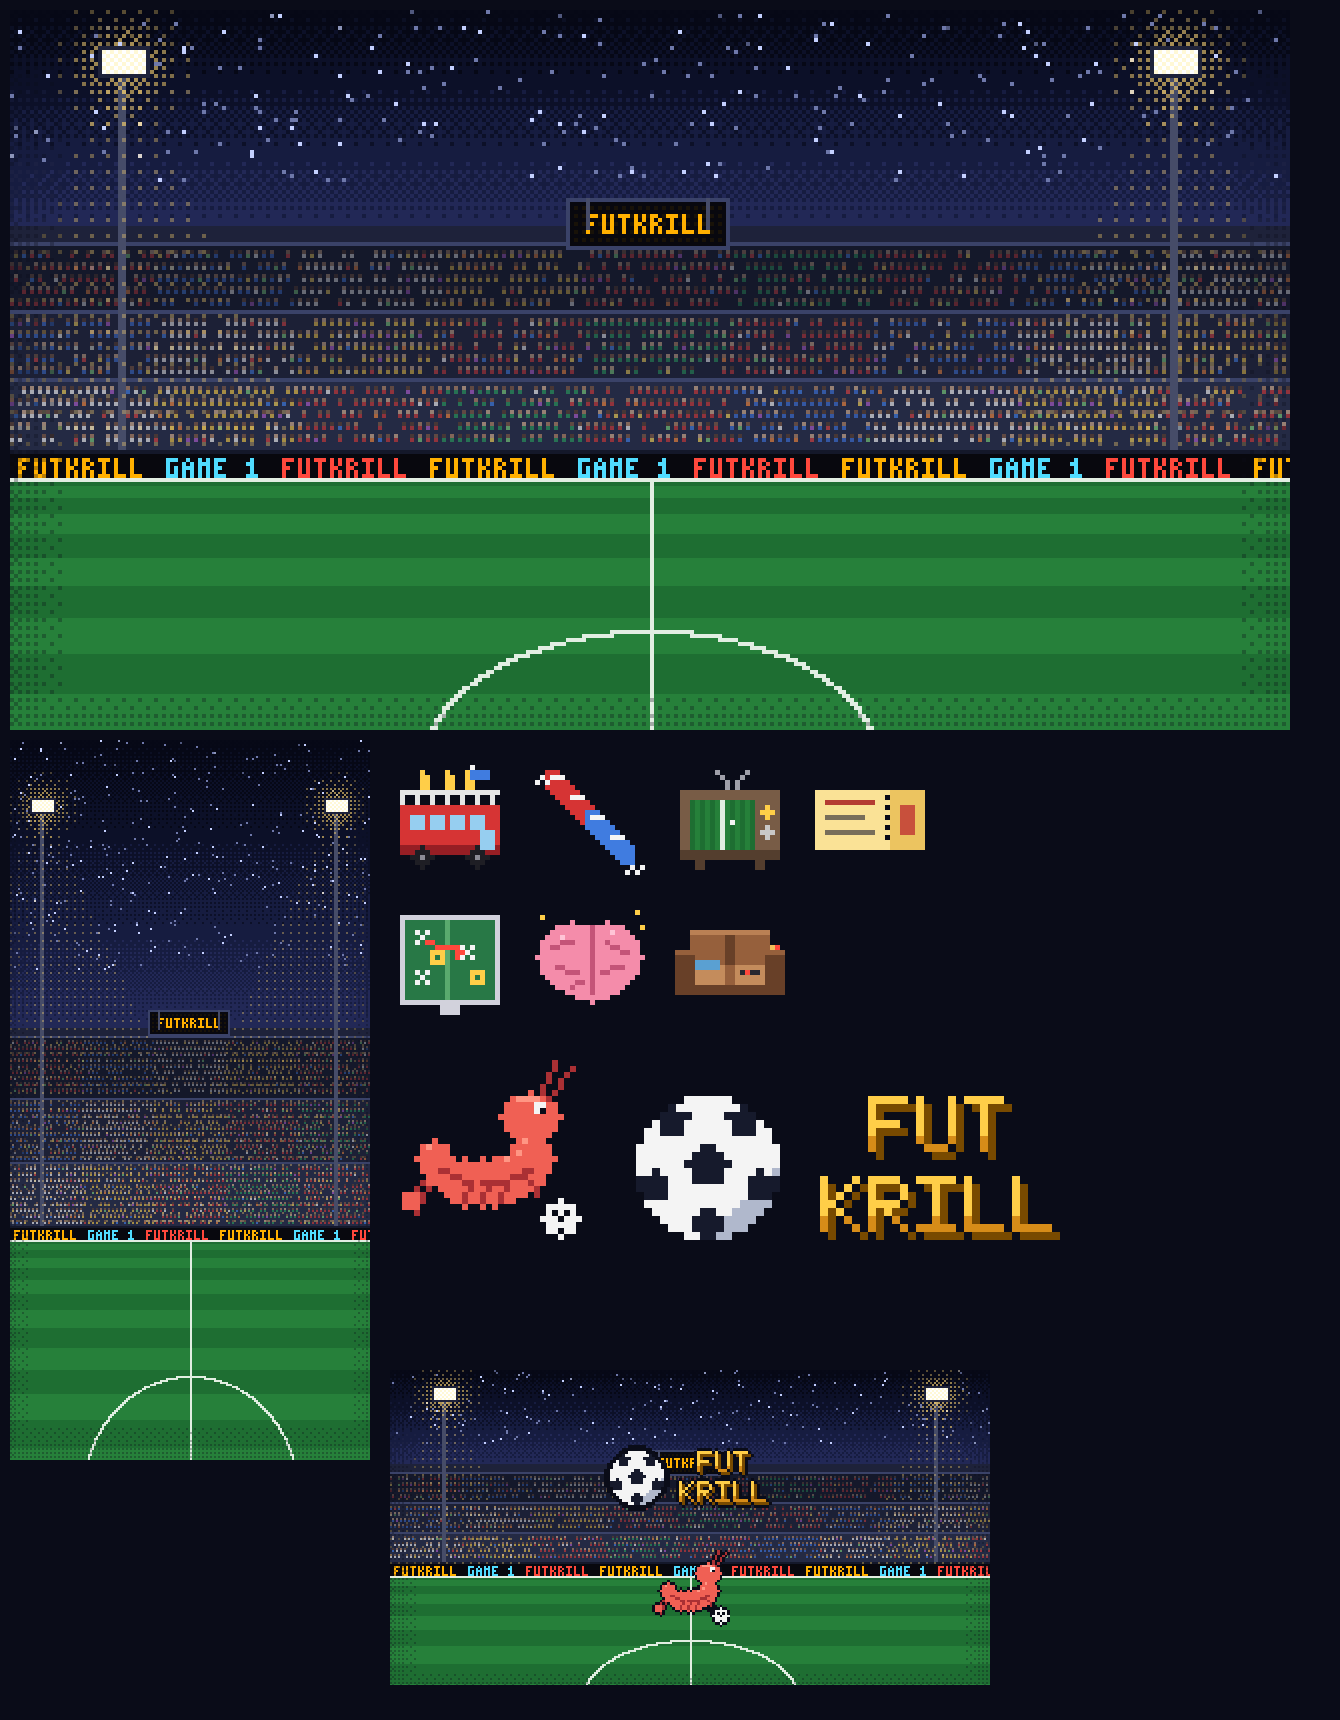
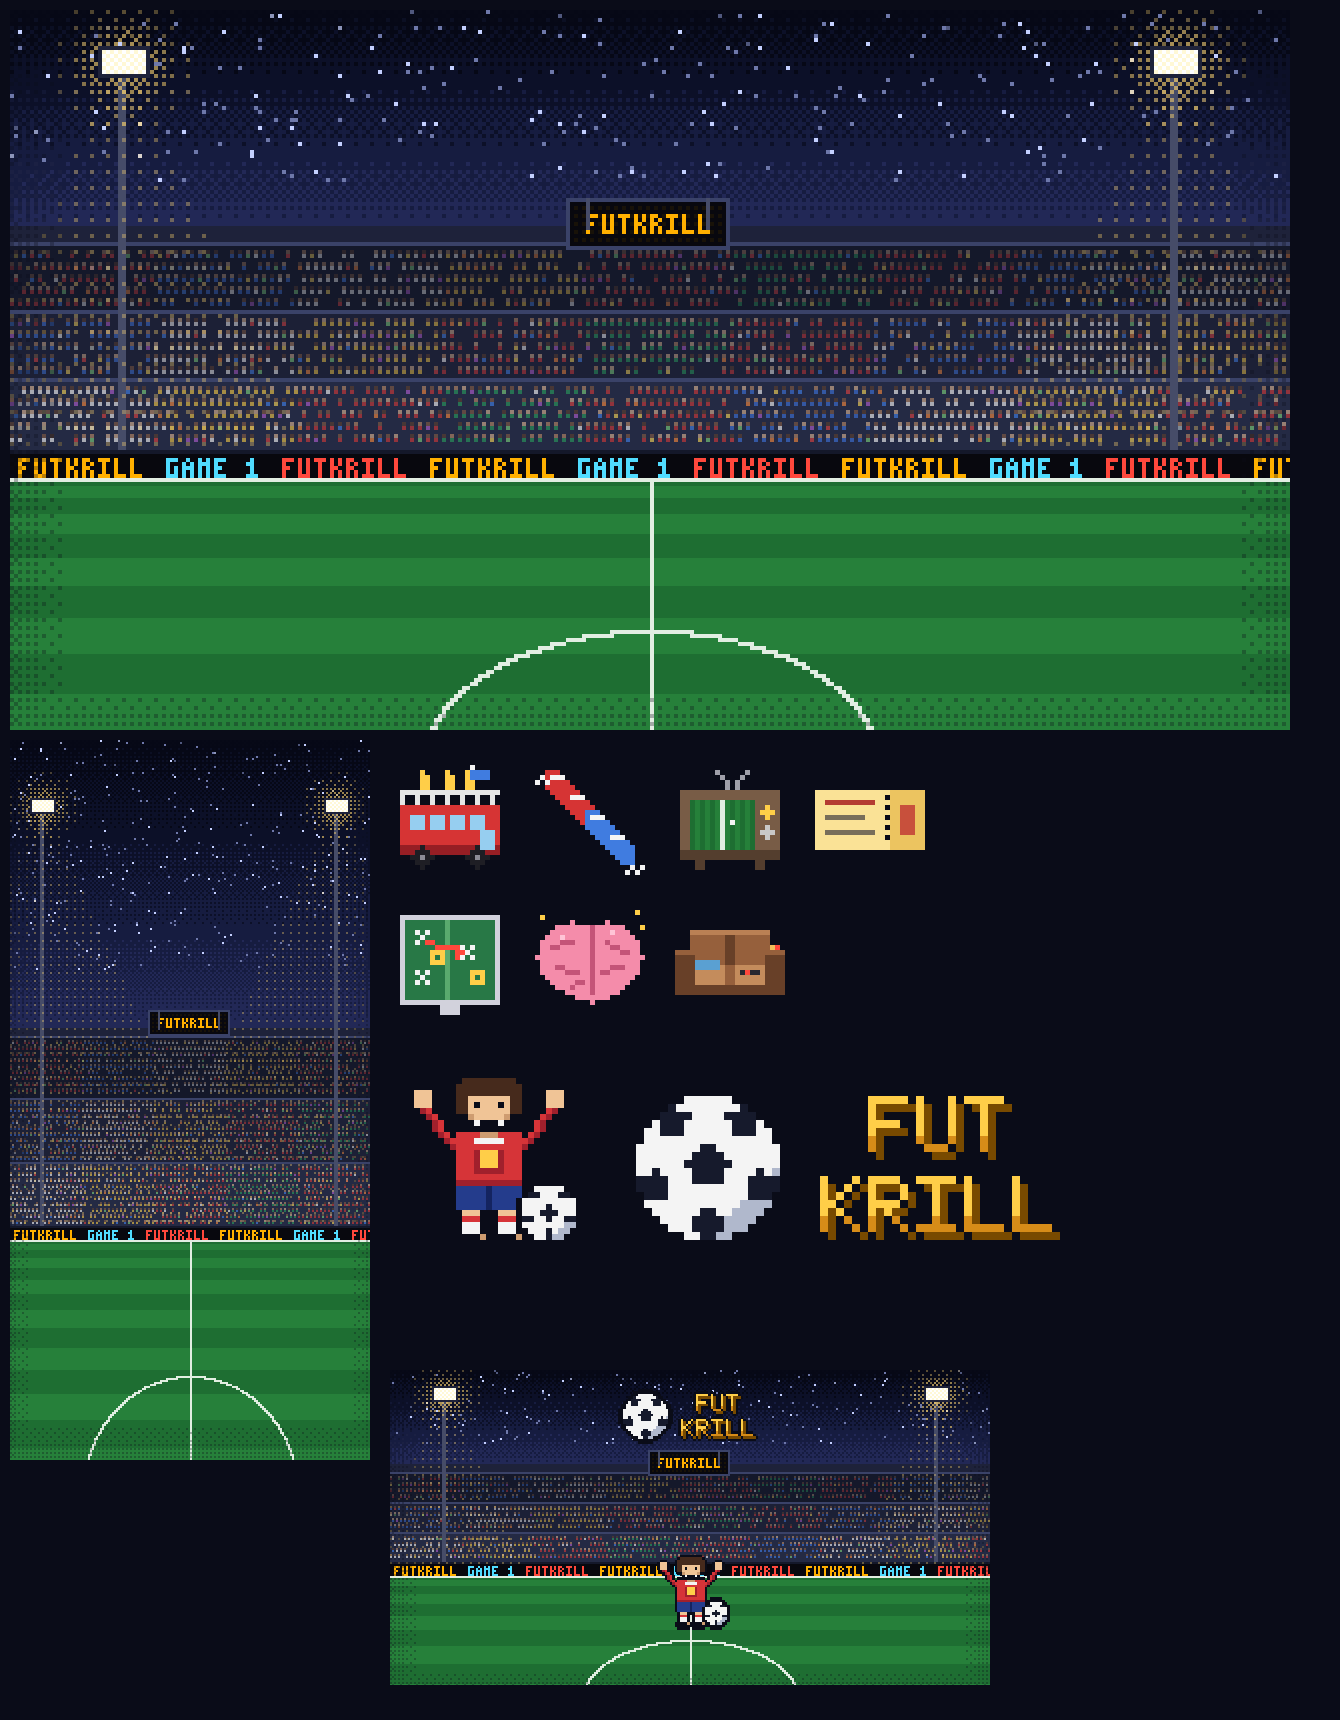
New mascot: a celebrating footballer with a ball (no more krill)
Drawn in art/make_art.py (32x32). The link-preview image's logo moves up so the stadium
scoreboard text no longer pokes out behind it.

Changed region(s): [[0.459, 0.8012, 0.5813, 0.9552], [0.306, 0.6163, 0.4284, 0.7395]]

diff --git a/art/make_art.py b/art/make_art.py
@@ -413,37 +413,49 @@ ICONS = {"tier-1-bandwagon": icon_bus, "tier-2-glory-hunter": icon_scarf, "tier-
 
 
 # ---------------------------------------------------------------- mascot (32x32)
+SHIRT = (214, 52, 56)
+SHIRT_DARK = (160, 32, 44)
+SHORTS = (36, 60, 140)
+HAIR = (70, 42, 28)
+SKIN_M = (240, 196, 150)
+SKIN_SHADE = (206, 156, 112)
+
+
 def mascot() -> Canvas:
-    import math
+    """A footballer celebrating: arms up, red shirt, ball at the feet."""
     cv = Canvas(32, 32)
-    # curled krill body: a fat arc of segments, head top-right, tail bottom-left
-    for i in range(9):
-        t = math.pi * (0.15 + i * 0.09)
-        cx = round(15 + 9 * math.cos(t)); cy = round(13 + 9 * math.sin(t) * 0.8)
-        r = 4 if i < 6 else 3
-        cv.ellipse(cx, cy, r, r, KRILL)
-        cv.put(cx - 1, cy - r + 1, KRILL_LIGHT)
-    # segment lines
-    for i in range(1, 8):
-        t = math.pi * (0.15 + i * 0.09)
-        cx = round(15 + 9 * math.cos(t)); cy = round(13 + 9 * math.sin(t) * 0.8)
-        cv.put(cx, cy, KRILL_DARK); cv.put(cx + 1, cy, KRILL_DARK)
-    # head and eye
-    cv.ellipse(23, 9, 5, 4, KRILL)
-    cv.rect(21, 6, 24, 6, KRILL_LIGHT)
-    cv.rect(24, 7, 25, 8, WHITE); cv.put(25, 8, INK); cv.put(24, 7, WHITE)
-    # antennae
-    cv.line(26, 6, 30, 1, KRILL_DARK); cv.line(25, 5, 27, 0, KRILL_DARK)
-    # tail fan
-    cv.line(5, 20, 2, 23, KRILL_DARK); cv.line(6, 21, 4, 25, KRILL_DARK); cv.rect(2, 22, 4, 24, KRILL)
-    # little legs, one kicking, and boots
-    for x in range(13, 22, 3):
-        cv.line(x, 20, x - 1, 23, KRILL_DARK)
-    cv.line(22, 19, 25, 23, KRILL_DARK)
-    cv.rect(24, 23, 26, 24, INK)                                     # boot
-    # football
-    cv.ellipse(28, 26, 3, 3, WHITE)
-    cv.put(28, 26, INK); cv.put(27, 25, INK); cv.put(29, 25, INK); cv.put(28, 28, INK)
+    # arms up (sleeve, then hand)
+    for (x0, y0, x1, y1) in ((11, 14, 6, 8), (21, 14, 26, 8)):
+        cv.line(x0, y0, x1, y1, SHIRT); cv.line(x0, y0 + 1, x1, y1 + 1, SHIRT)
+        cv.line(x0 + (1 if x0 > 16 else -1), y0, x1 + (1 if x0 > 16 else -1), y1, SHIRT_DARK)
+    for (hx, hy) in ((5, 6), (27, 6)):
+        cv.rect(hx - 1, hy - 1, hx + 1, hy + 1, SKIN_M)
+    # legs and socks
+    cv.rect(12, 23, 14, 27, SKIN_M); cv.rect(18, 23, 20, 27, SKIN_M)
+    cv.rect(12, 26, 14, 28, WHITE); cv.rect(18, 26, 20, 28, WHITE)
+    cv.rect(12, 26, 14, 26, SHIRT); cv.rect(18, 26, 20, 26, SHIRT)        # sock tops
+    # boots
+    cv.rect(11, 29, 15, 30, INK); cv.rect(17, 29, 21, 30, INK)
+    cv.put(15, 29, SKIN_SHADE); cv.put(21, 29, SKIN_SHADE)
+    # shorts
+    cv.rect(11, 20, 21, 24, SHORTS)
+    cv.line(16, 21, 16, 24, (20, 36, 96))
+    # shirt, with a white collar and a gold number block
+    cv.rect(11, 12, 21, 20, SHIRT)
+    cv.rect(11, 18, 21, 20, SHIRT); cv.rect(11, 20, 21, 20, SHIRT_DARK)
+    cv.rect(15, 12, 17, 12, SKIN_SHADE)                                    # neck
+    cv.rect(14, 13, 18, 13, WHITE)                                         # collar
+    cv.rect(14, 15, 18, 18, SHIRT_DARK)
+    cv.rect(15, 15, 17, 17, GOLD)                                          # number block
+    # head: skin, hair, face
+    cv.ellipse(16, 7, 4, 4, SKIN_M)
+    cv.rect(11, 4, 21, 5, HAIR); cv.rect(12, 3, 20, 3, HAIR); cv.rect(11, 6, 12, 8, HAIR); cv.rect(20, 6, 21, 8, HAIR)
+    cv.put(14, 7, INK); cv.put(18, 7, INK)                                 # eyes
+    cv.rect(14, 10, 18, 10, WHITE); cv.rect(15, 11, 17, 11, INK)           # big grin, mouth open
+    cv.rect(15, 10, 17, 10, INK)
+    cv.put(13, 9, SKIN_SHADE); cv.put(19, 9, SKIN_SHADE)
+    # ball at the right foot
+    cv.blit(ball(11), 21, 20)
     cv.outline()
     return cv
 
@@ -552,8 +564,8 @@ def main():
 
     # social preview 1200x630: scene + logo + mascot
     og = scaled(stadium(300, 158, seed=3).im, 4).crop((0, 0, 1200, 630)).convert("RGBA")
-    big = scaled(lg, 6)
-    og.alpha_composite(big, ((1200 - big.width) // 2, 150))
+    big = scaled(lg, 5)
+    og.alpha_composite(big, ((1200 - big.width) // 2, 38))     # above the stadium scoreboard, which would peek out behind it
     og.alpha_composite(scaled(m, 5), (1200 // 2 - 80, 360))
     og.convert("RGB").save(OUT / "og.png")
     scaled(ball(32).im, 1).save(OUT / "favicon-32.png")
